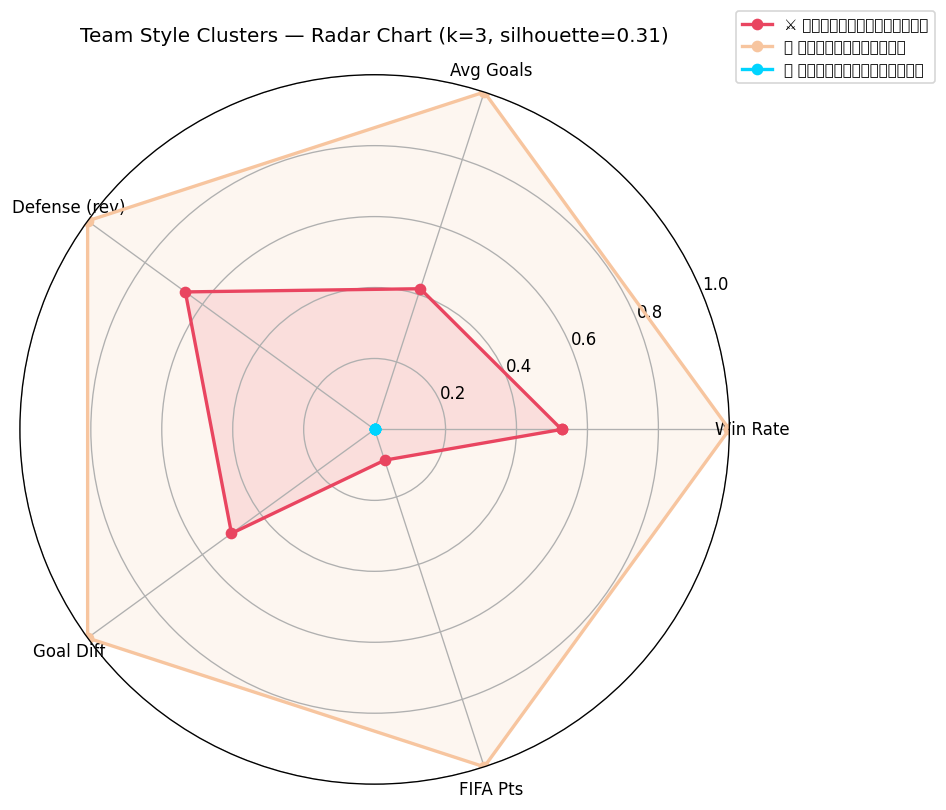
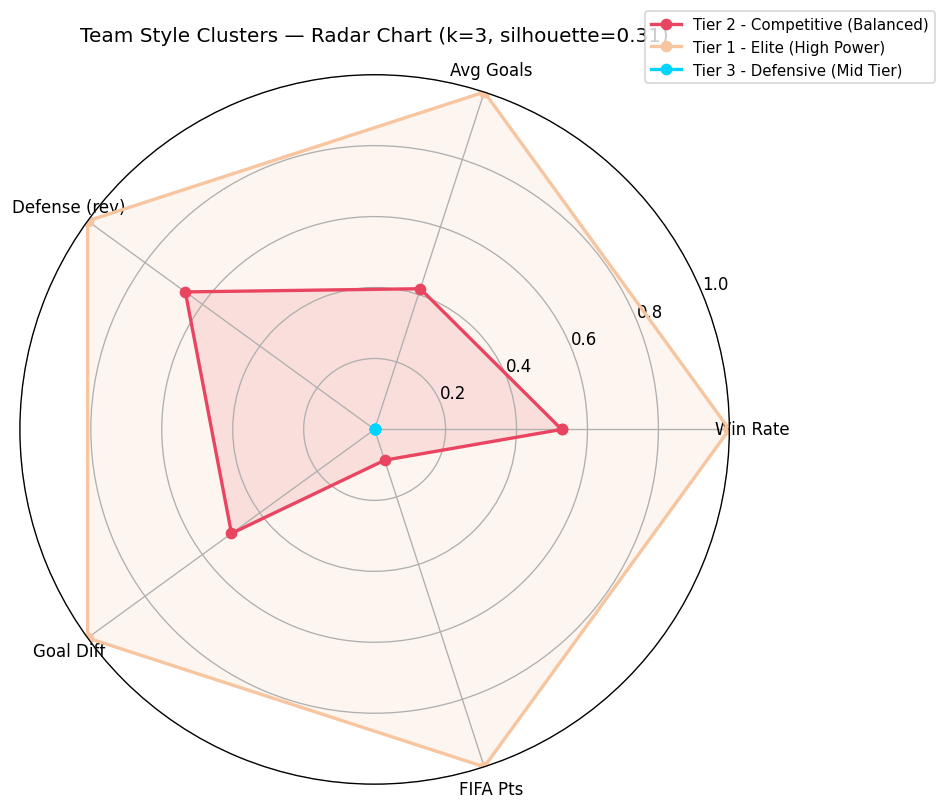
fix: matplotlib 圖例改 ASCII 英文，重新生成雷達圖/PCA散點圖消除亂碼

Changed region(s): [[0.6744, 0.0, 0.981, 0.0926]]

diff --git a/pretrain.py b/pretrain.py
@@ -578,20 +578,27 @@ def run_clustering(match_df):
 
     # 根據 fifa_pts 排序，給 cluster 標籤
     cluster_rank = centers_df['fifa_pts'].rank(ascending=False).astype(int) - 1
+    # cluster_names：中文版（供 Streamlit HTML 渲染）
+    # cluster_names_en：純 ASCII（供 matplotlib 圖例，避免 CJK 亂碼）
     cluster_names = {}
+    cluster_names_en = {}
     for c in range(best_k):
         rank = cluster_rank[c]
         if rank == 0:
-            name = '🔥 強權型（高實力、高攻擊）'
+            cluster_names[c]    = '🔥 強權型（高實力、高攻擊）'
+            cluster_names_en[c] = 'Tier 1 - Elite (High Power)'
         elif rank == 1:
-            name = '⚔ 競爭型（中上實力、攻守平衡）'
+            cluster_names[c]    = '⚔ 競爭型（中上實力、攻守平衡）'
+            cluster_names_en[c] = 'Tier 2 - Competitive (Balanced)'
         elif rank == 2:
-            name = '🛡 穩固型（中等實力、防守為主）'
+            cluster_names[c]    = '🛡 穩固型（中等實力、防守為主）'
+            cluster_names_en[c] = 'Tier 3 - Defensive (Mid Tier)'
         elif rank == 3:
-            name = '🌱 黑馬型（中下實力、潛力新銳）'
+            cluster_names[c]    = '🌱 黑馬型（中下實力、潛力新銳）'
+            cluster_names_en[c] = 'Tier 4 - Underdog (Emerging)'
         else:
-            name = f'第 {rank+1} 群'
-        cluster_names[c] = name
+            cluster_names[c]    = f'第 {rank+1} 群'
+            cluster_names_en[c] = f'Tier {rank+1}'
 
     # PCA 2D 視覺化
     pca = PCA(n_components=2)
@@ -641,7 +648,7 @@ def run_clustering(match_df):
         for c in range(best_k):
             vals = c_norm.iloc[c].tolist()
             vals += vals[:1]
-            ax.plot(angles, vals, 'o-', linewidth=2, label=cluster_names[c], color=colors[c % len(colors)])
+            ax.plot(angles, vals, 'o-', linewidth=2, label=cluster_names_en[c], color=colors[c % len(colors)])
             ax.fill(angles, vals, alpha=0.15, color=colors[c % len(colors)])
         ax.set_thetagrids(np.degrees(angles[:-1]),
                           ['Win Rate', 'Avg Goals', 'Defense (rev)', 'Goal Diff', 'FIFA Pts'])
@@ -659,7 +666,7 @@ def run_clustering(match_df):
         for c in range(best_k):
             sub = df[df['cluster'] == c]
             ax.scatter(sub['pca1'], sub['pca2'], s=120, alpha=0.7,
-                       label=cluster_names[c], color=colors[c % len(colors)],
+                       label=cluster_names_en[c], color=colors[c % len(colors)],
                        edgecolors='white', linewidths=1.2)
             for t, row in sub.iterrows():
                 ax.annotate(t, (row['pca1'], row['pca2']), fontsize=8, alpha=0.85,
